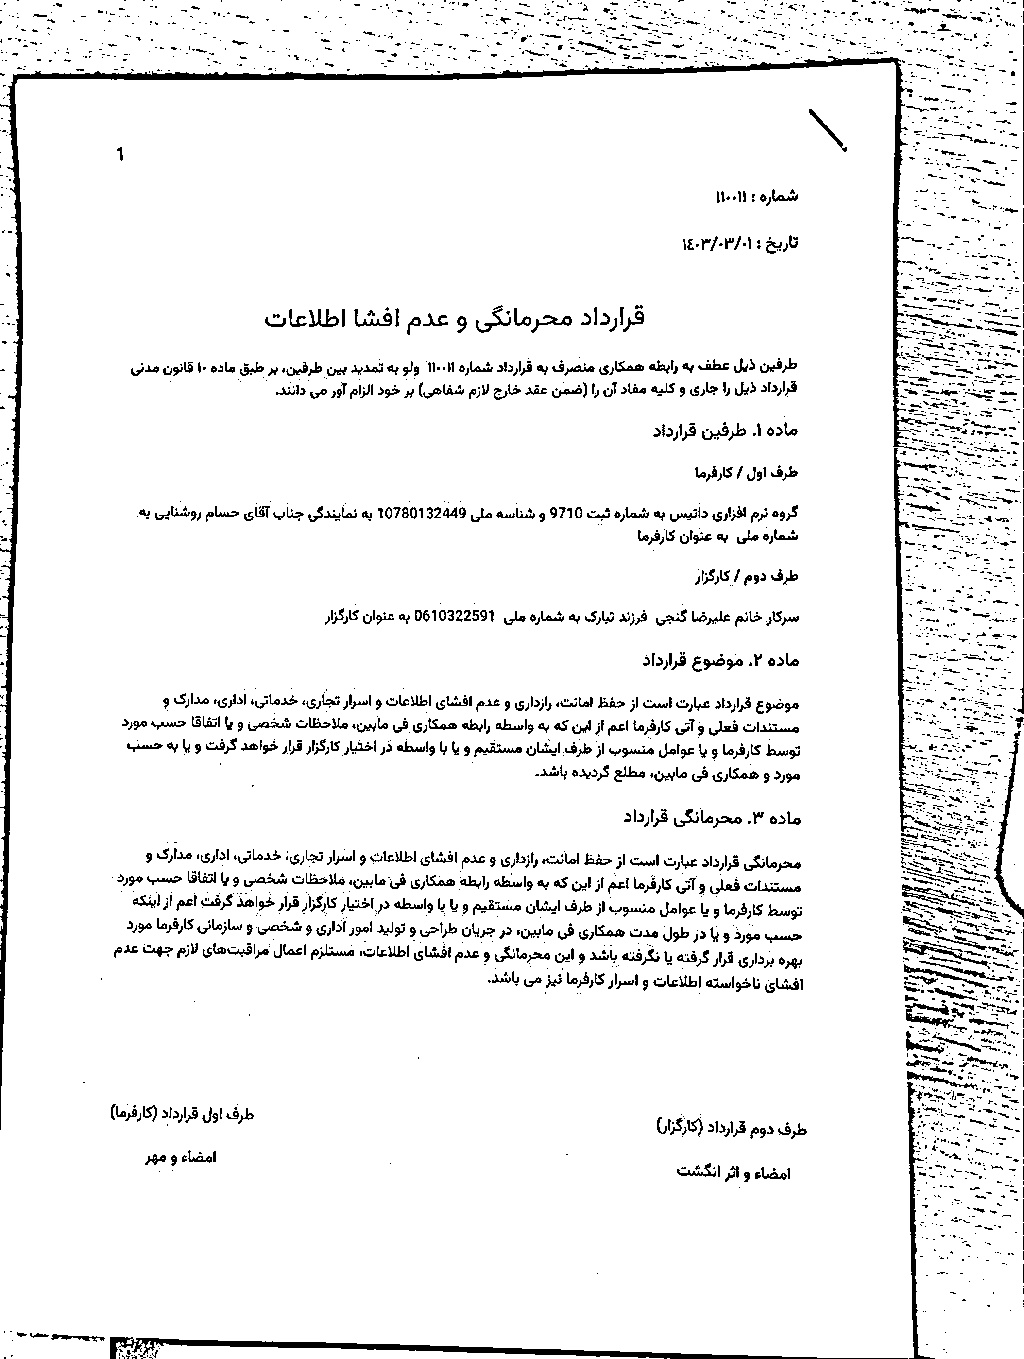
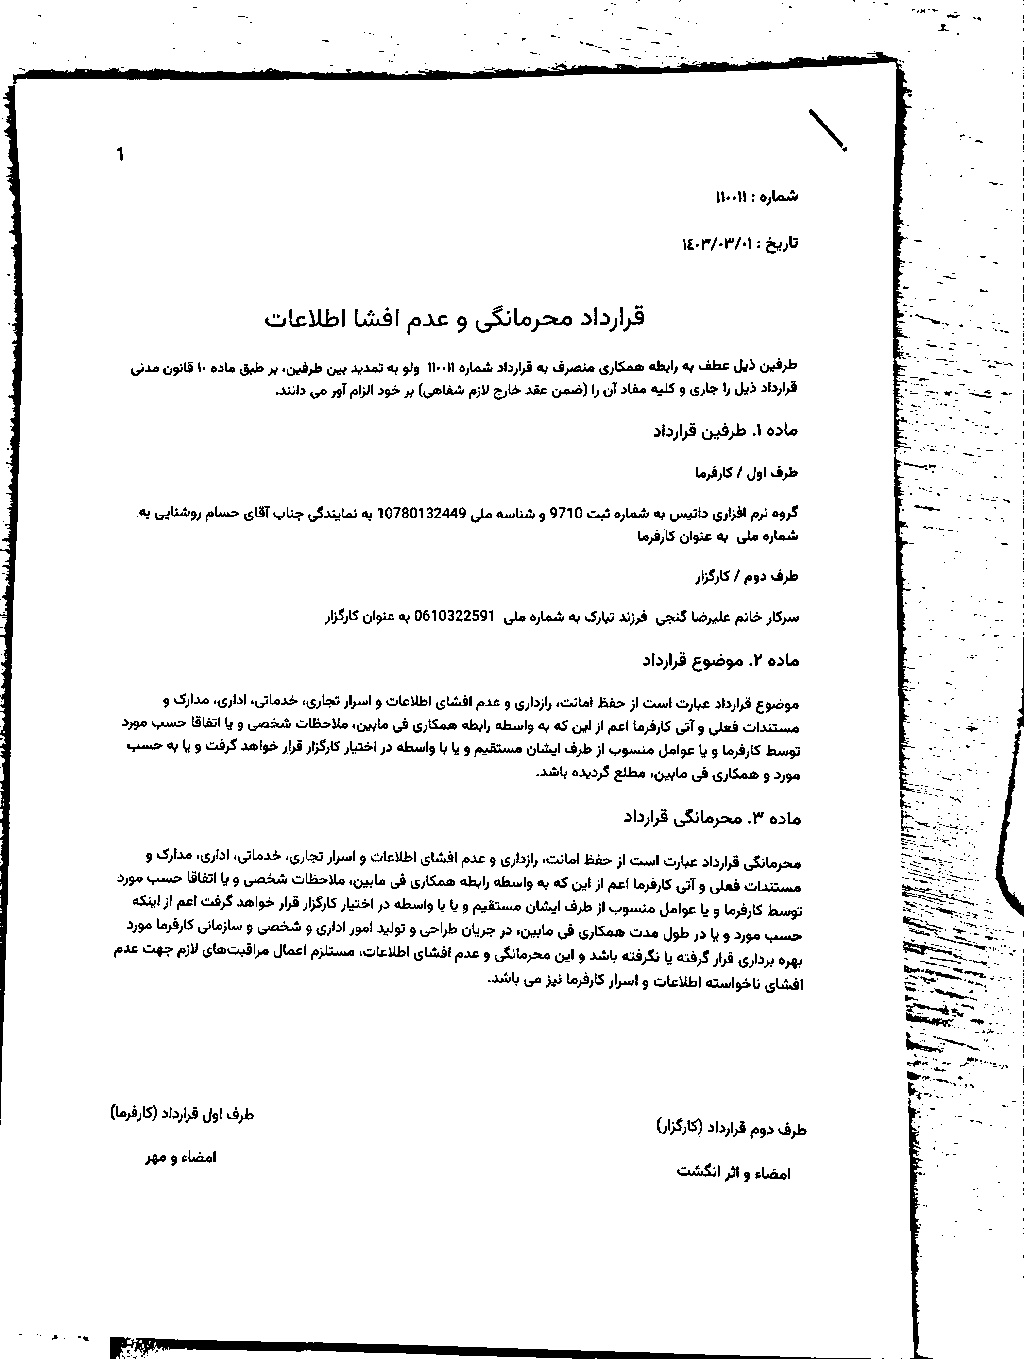
fix

diff --git a/Ganji.PersianOcr/Controllers/HomeController.cs b/Ganji.PersianOcr/Controllers/HomeController.cs
@@ -81,13 +81,14 @@ public class HomeController : Controller
             Mat binary = new Mat();
             //CvInvoke.Threshold(gray, binary, 170, 0, ThresholdType.ToZero);
             
-            CvInvoke.AdaptiveThreshold(gray, binary, 255, AdaptiveThresholdType.MeanC, ThresholdType.Binary, 13, 8);
+            CvInvoke.AdaptiveThreshold(gray, binary, 255, AdaptiveThresholdType.GaussianC, ThresholdType.Binary, 49, 15);  //59 21
             
-            //CvInvoke.Erode(binary, binary, new IntPtr(0), null, 1, BorderType.Constant, new Emgu.CV.Structure.MCvScalar());
-
             // Perform morphological operations to remove small noises and to close gaps in text lines
-            Mat kernel = CvInvoke.GetStructuringElement(ElementShape.Rectangle, new System.Drawing.Size(2, 2), new System.Drawing.Point(-1, -1));
-            CvInvoke.MorphologyEx(binary, binary, MorphOp.Dilate, kernel, new System.Drawing.Point(-1, -1), 1, BorderType.Default, new Emgu.CV.Structure.MCvScalar());
+            Mat kernel = CvInvoke.GetStructuringElement(ElementShape.Rectangle, new System.Drawing.Size(2, 1), new System.Drawing.Point(0, 0));
+            //  CvInvoke.MorphologyEx(binary, binary, MorphOp.Erode, kernel, new System.Drawing.Point(-1, -1), 1, BorderType.Default, new Emgu.CV.Structure.MCvScalar());
+            
+            Mat kernel2 = CvInvoke.GetStructuringElement(ElementShape.Rectangle, new System.Drawing.Size(1, 1), new System.Drawing.Point(-1, -1));
+            //CvInvoke.MorphologyEx(binary, binary, MorphOp.HitMiss, kernel2, new System.Drawing.Point(-1, -1), 1, BorderType.Default, new Emgu.CV.Structure.MCvScalar());
 
 
             // Save processed image (for debugging purposes)
